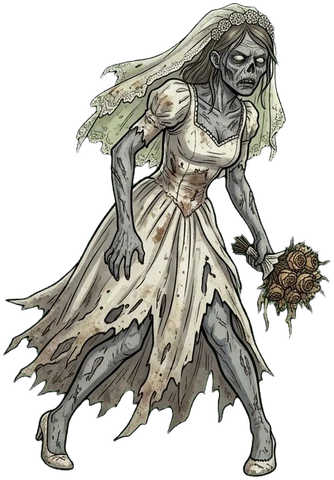
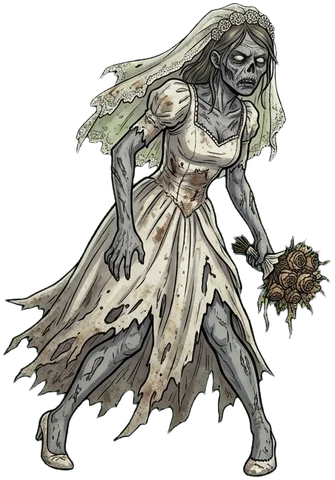
Portraits du Colosse et des zombies célèbres, Pompier à une seule hache

diff --git a/data.js b/data.js
@@ -12,7 +12,7 @@ var ICONE_MEMBRE = { "Papa":"papa", "Maman":"maman", "Léo":"leo", "Emma":"emma"
 // Icône dessinée k si elle existe, sinon l'emoji donné
 function ic(k, emoji){ if(typeof ICONES_SVG !== "undefined" && PORTRAITS_PNJ[k]) return portraitPNJ(k); return typeof ICONES_SVG !== "undefined" && ICONES_SVG[k] ? svgIcone(k) : emoji; }
 // Portraits peints des zombies et de Marco (Gemini, 2026-11-09)
-var PORTRAITS_PNJ = { mariee:"images/portrait-coureur.webp", pompier:"images/portrait-soldat.webp", boucher:"images/portrait-rodeur.webp", colosse:"images/portrait-costaud.webp", rodeur:"images/portrait-rodeur.webp", coureur:"images/portrait-coureur.webp", costaud:"images/portrait-costaud.webp", marco:"images/portrait-marco.webp",
+var PORTRAITS_PNJ = { mariee:"images/portrait-mariee.webp", pompier:"images/portrait-pompier.webp", boucher:"images/portrait-boucher.webp", colosse:"images/portrait-colosse.webp", rodeur:"images/portrait-rodeur.webp", coureur:"images/portrait-coureur.webp", costaud:"images/portrait-costaud.webp", marco:"images/portrait-marco.webp",
   defenseur:"images/portrait-pillard.webp", rampant:"images/portrait-rampant.webp", hurleur:"images/portrait-hurleur.webp", gonfle:"images/portrait-gonfle.webp", soldat:"images/portrait-soldat.webp" };
 // Décor du combat selon le lieu (images/combat/*.webp)
 var FONDS_COMBAT = { foret:["Forêt", "Étang", "Camping des Pins"], magasin:["Supermarché", "Hôpital", "Commissariat", "Centre commercial", "Clinique vétérinaire", "École Jules-Ferry", "Bunker du survivaliste", "Quincaillerie"],

diff --git a/site/data.js b/site/data.js
@@ -12,7 +12,7 @@ var ICONE_MEMBRE = { "Papa":"papa", "Maman":"maman", "Léo":"leo", "Emma":"emma"
 // Icône dessinée k si elle existe, sinon l'emoji donné
 function ic(k, emoji){ if(typeof ICONES_SVG !== "undefined" && PORTRAITS_PNJ[k]) return portraitPNJ(k); return typeof ICONES_SVG !== "undefined" && ICONES_SVG[k] ? svgIcone(k) : emoji; }
 // Portraits peints des zombies et de Marco (Gemini, 2026-11-09)
-var PORTRAITS_PNJ = { mariee:"images/portrait-coureur.webp", pompier:"images/portrait-soldat.webp", boucher:"images/portrait-rodeur.webp", colosse:"images/portrait-costaud.webp", rodeur:"images/portrait-rodeur.webp", coureur:"images/portrait-coureur.webp", costaud:"images/portrait-costaud.webp", marco:"images/portrait-marco.webp",
+var PORTRAITS_PNJ = { mariee:"images/portrait-mariee.webp", pompier:"images/portrait-pompier.webp", boucher:"images/portrait-boucher.webp", colosse:"images/portrait-colosse.webp", rodeur:"images/portrait-rodeur.webp", coureur:"images/portrait-coureur.webp", costaud:"images/portrait-costaud.webp", marco:"images/portrait-marco.webp",
   defenseur:"images/portrait-pillard.webp", rampant:"images/portrait-rampant.webp", hurleur:"images/portrait-hurleur.webp", gonfle:"images/portrait-gonfle.webp", soldat:"images/portrait-soldat.webp" };
 // Décor du combat selon le lieu (images/combat/*.webp)
 var FONDS_COMBAT = { foret:["Forêt", "Étang", "Camping des Pins"], magasin:["Supermarché", "Hôpital", "Commissariat", "Centre commercial", "Clinique vétérinaire", "École Jules-Ferry", "Bunker du survivaliste", "Quincaillerie"],

diff --git a/site/sw.js b/site/sw.js
@@ -4,7 +4,7 @@
    IMPORTANT : à chaque mise à jour du jeu, changer VERSION (sinon les
    téléphones garderaient l'ancienne copie).
    ===================================================================== */
-var VERSION = "survival-20261111-1138";
+var VERSION = "survival-20261111-1143";
 var FICHIERS = [
   "./",
   "index.html",

diff --git a/CLAUDE.md b/CLAUDE.md
@@ -337,7 +337,7 @@ Défis du jour et de la semaine (2026-11-11, 4e idée validée) : `defis.js` (ch
 Événement mondial « Grande horde du week-end » (2026-11-11, 5e idée validée) : vendredi 17 h → lundi 5 h UTC (18 h → 6 h en France l'hiver), pour tous les joueurs. `idHorde` (defis.js) et `idHordeServeur` (worker) donnent le même identifiant (`horde-<date du vendredi>`). Pendant la horde, `HORDE_MONDIALE` (defis.js, revu chaque minute) : `chanceAttaqueNuit` +15 % (plafond 90 % au lieu de 80), `forceMiniNuit` +1, combats `zombieEnPlus` +0,08 (`BAL.horde` ; fonctions `hordeMondiale`, jamais en partie temporaire de raid ; la simulation ne la connaît pas) ; ligne « 🌍 La grande horde rôde » dans le bilan d'une nuit attaquée. Objectif commun : les zombies abattus pendant la horde (`noterEvt` via `noterDefi`, localStorage `survival_evt`) partent avec les chiffres du monde (`envoyerMonde` : `evt`, toutes les 5 min pendant la horde) ; `/api/monde` GET renvoie `evt` {total, participants, objectif = max(500, 100 × joueurs actifs)} ; objectif atteint = un colis par participant (`verifierEvt`, une fois par horde, `survival_evt_recompense`). Affichage : bandeau au début, section dans la fenêtre Défis (`contenuEvt` : temps restant, barre commune, ma part ; hors horde : « prochaine horde dans… »), tuile du menu « 🌍 Défis · La horde est là ! », panneau PC, guide, vitrine. Simulation (toute la partie en horde, pire cas) : bon 94 → 86 jours, moyen 57 → 43, débutant 10 → 9
 Saisons (2026-11-11, 6e idée validée) : `SAISONS` (data.js) de 30 jours de jeu chacune (`BAL.saisons.duree`) : Automne (jours 1-30), Hiver (31-60), Printemps (61-90), Été (91-120), puis on recommence ; `saison(d)`, `estSaison(id)` (logique.js). Effets : automne = +1 ration d'eau par nuit avec un récupérateur ; hiver = une couverture ne tient chaud qu'une personne, le feu brûle une planche par nuit, +3 de faim par jour, étang gelé (pas de pêche, message), potager et herbes à l'arrêt ; printemps = potager ×2, +1 moral par nuit ; été = +3 de soif par jour. Annonce dans le bilan de la nuit au changement. En-tête : « Chapitre N · ❄ Hiver » (sur PC, la saison passe sur sa propre ligne `.ch-saison`, sinon les pastilles étaient coupées). Météo (idée de Fabien) : neige l'hiver, pluie l'automne, en CSS (`.meteo`, `placerMeteo` dans piece.js, posé sur la zone de la pièce) seulement sur les images d'extérieur (cour, cour du bastion, lieux pendant une expédition, arène d'un combat dehors via `body.meteo-neige|pluie .arene::after`), jamais dans la maison ni dans l'immeuble du raid ; immobile si l'appareil demande moins d'animations. Réglé par simulation : la baisse du récupérateur en été faisait un mur au jour 91 → retirée (`recupEte` 0) ; final : bon 95 jours (10 % ≤ 65, 90 % ≤ 114), moyen 47 (57 sans saisons : l'hiver est un vrai cap), débutant 11. Guide « Les saisons », vitrine « Nuits et saisons »
 Zombie célèbre (2026-11-11, 7e et dernière idée validée) : 3 zombies uniques à la fin de `ZOMBIES` (`celebre:true`, jour 99999, jamais tirés au hasard) : la Mariée (frappe 2 fois), le Pompier (armure 2, lourd), le Boucher (gros dégâts) ; sprites et portraits du coureur / soldat / rôdeur teintés en CSS (`.zc.sprite.z-<id>`). `BAL.celebre` (jour 20, suivant 25 jours après, moral +15, butin). `G.celebre = {id, lieu, pv, pvMax, depuis}` : apparaît par `nuitCelebre` (dans `nuitMonde`, tirages `alea`), change de lieu chaque nuit (pas les zones à voiture) ; avec une radio, le bilan dit où il a été vu et sa carte dans « Où envoyer l'équipe ? » porte « 💀 nom » (`.cl-celebre`). Aller dans son lieu = combat forcé (`celebreIci` dans `suiteExpedition`, il rejoint `creerCombat` avec ses PV gardés, 3 zombies au plus) ; `apresCombatCelebre` (dans `finExpedition`) garde ses blessures ou, s'il tombe, donne butin + moral et ajoute `G.trophees` ({id, nom, jour, par} ; `C.tueurCelebre`). Trophée posé sur la cheminée du salon (`DECOR_PIECE`, zone `oTrophees` → `openTrophees` : trophées + celui encore en liberté). Cause de mort « tué par le Pompier ». Guide « Les zombies célèbres » + fiches, vitrine (carte des combats). Simulation : bon 97 jours (95 avant), moyen 47, débutant 10
-Images de l'immeuble et des zombies célèbres (2026-11-11, Gemini) : les 6 décors du raid dans `images/immeuble/` (exterieur, hall, appartements, bureaux, dernier, toit ; 1376 × 768 ; les images de secours ne servent plus), aussi sur la carte « Opérations de clan » de la vitrine ; `preparer-site.py` copie `images/immeuble`. Zombies en pied détourés par Claude (fond vert, découpe par morceaux connexes pour séparer le bouquet de la hache) : `images/zombies/colosse|mariee|pompier|boucher.webp` (Colosse 72 cqh, Boucher 64 cqh ; plus de teintes CSS). Panneau des opérations détouré `images/panneau-ops.webp`, accroché au mur de la grande salle du bastion au-dessus de la niche à bûches (`decor` + zone `pPanneau` → opérations, brille comme la table). Sources `images/sources/immeuble-*-gemini.jpg`. Il manque les portraits (vignettes) du Colosse et des 3 célèbres (prompt 10 de prompts-immeuble.md) : en attendant, portraits du Costaud / Coureur / Soldat / Rôdeur (`PORTRAITS_PNJ`). Pompier : Fabien a envoyé une version corrigée (une seule hache) qui n'est pas arrivée dans un fichier : à remplacer quand il la renvoie
+Images de l'immeuble et des zombies célèbres (2026-11-11, Gemini) : les 6 décors du raid dans `images/immeuble/` (exterieur, hall, appartements, bureaux, dernier, toit ; 1376 × 768 ; les images de secours ne servent plus), aussi sur la carte « Opérations de clan » de la vitrine ; `preparer-site.py` copie `images/immeuble`. Zombies en pied détourés par Claude (fond vert, découpe par morceaux connexes pour séparer le bouquet de la hache) : `images/zombies/colosse|mariee|pompier|boucher.webp` (Colosse 72 cqh, Boucher 64 cqh ; plus de teintes CSS). Panneau des opérations détouré `images/panneau-ops.webp`, accroché au mur de la grande salle du bastion au-dessus de la niche à bûches (`decor` + zone `pPanneau` → opérations, brille comme la table). Sources `images/sources/immeuble-*-gemini.jpg`. Portraits reçus le même jour (grille 2 × 2, source `images/sources/portraits-celebres-gemini.jpg`) : `images/portrait-colosse|mariee|pompier|boucher.webp` (256 px, fond sombre), dans `PORTRAITS_PNJ`. Pompier remplacé par la version à une seule hache
 Décor des assauts : la cour fortifiée (`piece-bastion-cour.webp`) sert de fond au combat pendant un assaut (ui.js, `openCombat`).
 Bilan de difficulté (2026-11-10, simulation après tous les ajouts) : Malin vit 85 jours (médiane, 10 % ≤ 68, 90 % ≤ 104, max 122), 96 % atteignent le jour 60, 79 % le jour 75, seulement 16 % le jour 100 ; Naïf 10 jours (1re mort au jour 5). Causes de mort de Malin : attaques de nuit, puis soif, puis faim. Assauts (2 membres, robot Auto, 200 essais) : bastion faible = 100 % de victoires ; remparts 5 + armurerie 3 + cible au jour 200 = 0 % (7 % avec gilets, casques, boucliers et camion au maximum) : courbe trop raide, à lisser. Jour d'accès aux clans : 100 jugé trop long.
 Réglages du 2026-11-10 (choix de Fabien : 30 jours) :
